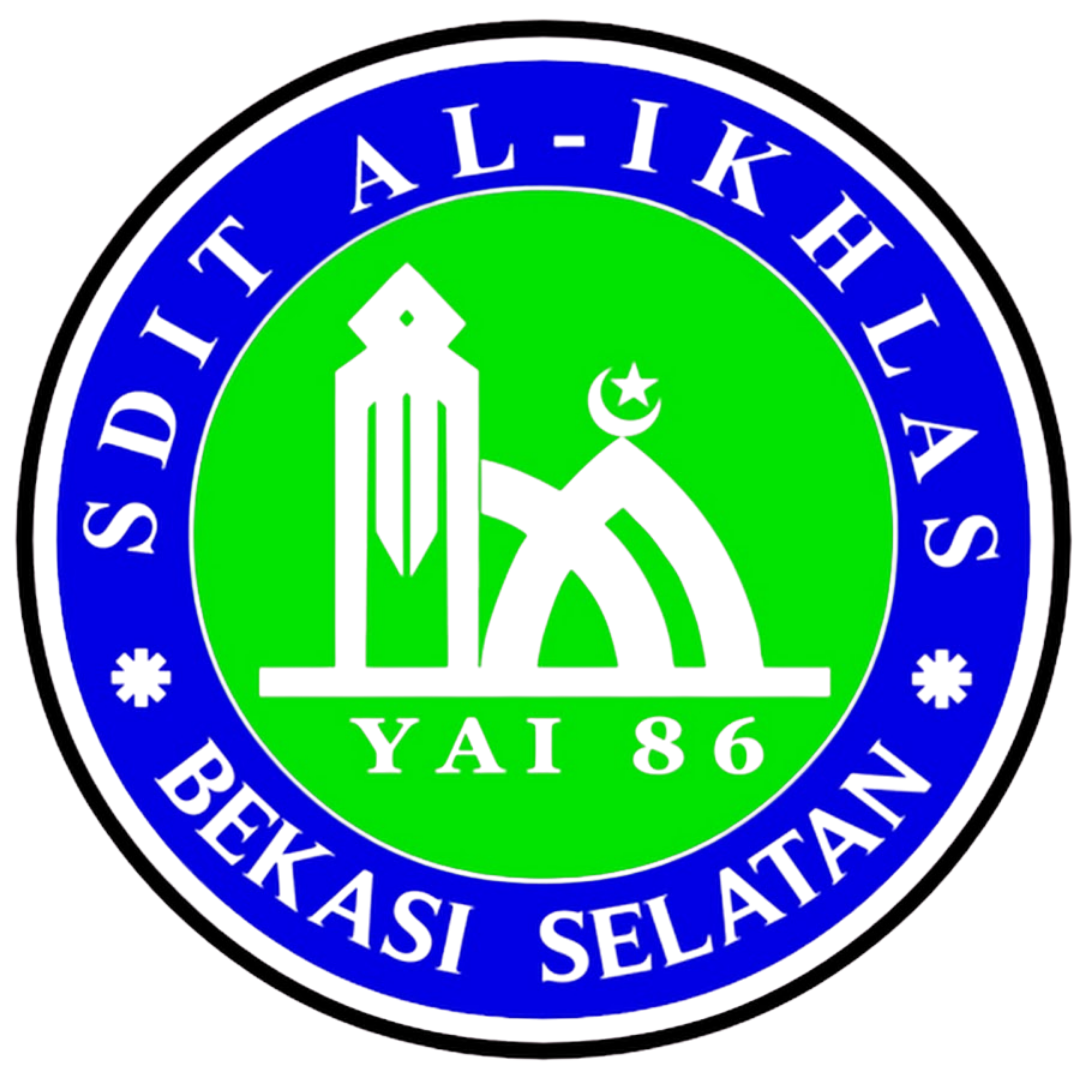
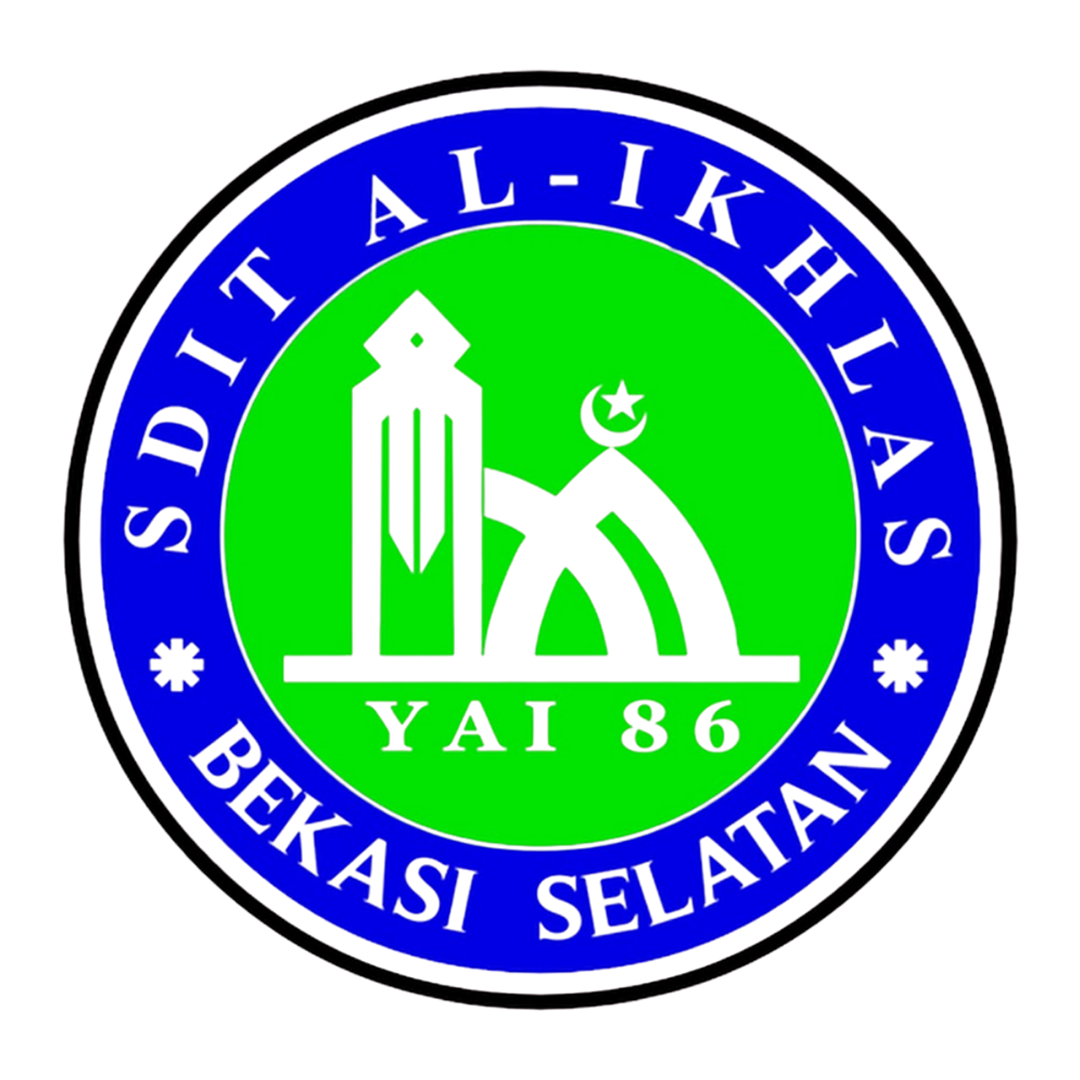
fix: perbaikan susulan setelah user uji langsung di APK #14 - 4 bug nyata
User uji APK #14 di HP asli, laporkan 4 hal masih bermasalah:

1. Icon SALAH - ternyata ada D:\icon\Catatan.txt yang terlewat sesi
   sebelumnya: icon.png utk APK/instalasi, icon2.png utk HOMESCREEN -
   BEDA gambar, BUKAN sumber tunggal spt yang saya asumsikan di W7.
   Diperbaiki: assets/favicon.png (expo.icon, dipakai APK) = icon.png,
   assets/icon.png (adaptiveIcon.foregroundImage, dipakai homescreen) =
   icon2.png.

2. authedFetch() TERNYATA masih fetch() polos TANPA timeout (W4B kemarin
   cuma menutup authedUpload) - koneksi terputus PAS Berita Acara loading,
   nyambung lagi tapi layar muter SELAMANYA. Diperbaiki pola identik
   authedUpload (AbortController 15 detik). Diuji Puppeteer: request
   digantung 17 detik - UI otomatis pulih ke status kosong, tidak macet.
   TAMBAHAN native-only: auto-retry begitu online kembali (reloadGen dari
   networkService.ts, W4E) dipasang di BeritaAcaraScreen/NewsCarousel/
   BeritaAcaraViewer - retry OTOMATIS tanpa nunggu 15 detik/aksi manual.

3. Badge OS masih hilang saat app dibuka-lalu-ditutup tanpa baca -
   diperkuat: re-assert SEKALI LAGI ~1.2 detik setelah 'active' (menembak
   SETELAH kemungkinan auto-clear MIUI, bukan bersamaan) + re-assert
   SEKALI LAGI saat transisi ke 'background' (titik BARU - pastikan nilai
   benar jadi yang TERAKHIR menempel sebelum app kehilangan foreground).
   TETAP best-effort (perilaku launcher pihak ketiga), bukan jaminan 100%.
[…]

diff --git a/src/hooks/useUnreadNotificationCount.ts b/src/hooks/useUnreadNotificationCount.ts
@@ -12,18 +12,29 @@ import { api } from "../services/api";
 // aman diabaikan kalau launcher tidak dukung, bukan error).
 const POLL_INTERVAL_MS = 15000;
 
-// Mitigasi best-effort (2026-09-05, W3B) - laporan user: badge ikon app
-// kadang balik ke 0 begitu app dibuka walau belum ada yang dibaca. Diaudit
-// TIDAK ADA kode di app ini yang pernah reset badge ke 0 secara sengaja -
-// satu-satunya titik set badge (di bawah) SELALU pakai angka ASLI dari
-// server, dan hitungannya sendiri granular benar (1 notifikasi dibaca =
-// -1, bukan bulk-zero, lihat routes/notifications.js). Kesimpulan: ini
-// KEMUNGKINAN BESAR perilaku launcher Android/MIUI di luar kendali kode
-// (badge dibersihkan visual oleh OS saat ikon disentuh, independen dari
-// nilai terakhir yang di-set) - BUKAN jaminan fix total, tapi begitu app
-// kembali ke foreground, badge langsung di-reassert SEGERA (bukan
-// menunggu tick 15 detik berikutnya) supaya kalaupun sempat kebersihkan
-// visual oleh OS, pulih dalam hitungan detik.
+// Mitigasi (2026-09-05, W3B + susulan) - laporan user, direproduksi ULANG
+// di HP asli setelah fix pertama: buka app (badge MASIH ada di homescreen,
+// belum dibaca apa-apa), TUTUP app - badge ikut hilang dari homescreen
+// walau belum pernah membaca 1 pun notifikasi. Diaudit ULANG: TIDAK ADA
+// kode di app ini yang reset badge ke 0 - server-side count-nya sendiri
+// tetap benar (dikonfirmasi via layar Notifikasi in-app TETAP tampilkan
+// titik belum-dibaca). Kesimpulan diperkuat: ini MIUI/launcher Android
+// yang MENGANGGAP "app dibuka = user sudah lihat" & membersihkan badge-nya
+// SENDIRI di level OS begitu app di-foreground-kan - TIDAK PEDULI nilai
+// yang di-set lewat API, dan fix pertama (re-assert SEGERA saat 'active')
+// TERNYATA kalah waktu vs pembersihan MIUI itu sendiri (sama2 terjadi pas
+// app baru dibuka, race yang tidak selalu menang).
+//
+// Perkuat dgn 3 titik re-assert (bukan cuma 1): (1) segera saat 'active'
+// [sudah ada], (2) SEKALI LAGI ~1.2 detik setelah 'active' - menembak
+// SETELAH kemungkinan pembersihan MIUI selesai, bukan bersamaan, (3) saat
+// app baru mau ke 'background' - ini titik BARU yang paling penting utk
+// skenario "buka lalu langsung tutup tanpa baca": begitu user menutup app,
+// badge di-set ULANG ke nilai yg BENAR SEBELUM app kehilangan foreground -
+// jadi APAPUN yang MIUI lakukan saat app dibuka, nilai TERAKHIR yang
+// "menempel" di homescreen adalah nilai benar dari titik (3) ini.
+// TETAP bukan jaminan 100% (perilaku launcher pihak ketiga, di luar
+// kendali kode), tapi menutup celah race yang ditemukan di fix pertama.
 export function useUnreadNotificationCount(): number {
   const [count, setCount] = useState(0);
 
@@ -41,10 +52,22 @@ export function useUnreadNotificationCount(): number {
 
     poll();
     const interval = setInterval(poll, POLL_INTERVAL_MS);
+    let delayedTimer: ReturnType<typeof setTimeout> | null = null;
     const appStateSub = AppState.addEventListener("change", (state) => {
-      if (state === "active") poll();
+      if (state === "active") {
+        poll();
+        delayedTimer = setTimeout(poll, 1200);
+      } else if (state === "background") {
+        if (delayedTimer) clearTimeout(delayedTimer);
+        poll();
+      }
     });
-    return () => { cancelled = true; clearInterval(interval); appStateSub.remove(); };
+    return () => {
+      cancelled = true;
+      clearInterval(interval);
+      if (delayedTimer) clearTimeout(delayedTimer);
+      appStateSub.remove();
+    };
   }, []);
 
   return count;

diff --git a/src/services/api.ts b/src/services/api.ts
@@ -164,6 +164,18 @@ export async function verifyOtp(
   }
 }
 
+// Timeout+try/catch (2026-09-05, susulan W4B) - BUG NYATA ditemukan user:
+// authedUpload() sudah dikasih timeout (W4B), tapi authedFetch() - dipakai
+// HAMPIR SEMUA layar (daftar Berita Acara dkk), jauh lebih sering dipanggil
+// drpd upload - TERNYATA masih fetch() polos TANPA batas waktu. Skenario
+// persis laporan user: koneksi terputus PAS request sedang jalan, lalu
+// koneksi nyambung lagi - promise fetch yang lama itu TIDAK PERNAH
+// resolve/reject (OS bisa nahan socket menggantung bermenit-menit), spinner
+// loading di layar (mis. Berita Acara) muter SELAMANYA krn kode pemanggil
+// (mis. `setLoading(false)` di BeritaAcaraScreen.tsx) tidak pernah
+// terpanggil. 15 detik dianggap wajar utk request JSON biasa (jauh lebih
+// pendek dari upload 30 detik - respons JSON normal harusnya cepat).
+const FETCH_TIMEOUT_MS = 15000;
 async function authedFetch(path: string, options: RequestInit = {}) {
   const token = getActiveToken();
   // X-Viewing-Tahun-Ajaran (2026-09-04, Fase 4) - dipasang di SETIAP request
@@ -172,20 +184,30 @@ async function authedFetch(path: string, options: RequestInit = {}) {
   // aktif spt sebelum Fase 4 ada - lihat middleware/auth.js). Sama persis
   // pola webview api.ts.
   const viewingYear = getViewingYear();
-  const res = await fetch(`${API_URL}${path}`, {
-    ...options,
-    headers: {
-      ...(options.headers || {}),
-      Authorization: token ? `Bearer ${token}` : "",
-      "Content-Type": "application/json",
-      ...(viewingYear ? { "X-Viewing-Tahun-Ajaran": String(viewingYear.id) } : {}),
-    },
-  });
-  if (res.status === 401 && token && getActiveToken() === token) {
-    await logout();
-    DeviceEventEmitter.emit(SESSION_EXPIRED_EVENT);
+  const controller = new AbortController();
+  const timeoutId = setTimeout(() => controller.abort(), FETCH_TIMEOUT_MS);
+  try {
+    const res = await fetch(`${API_URL}${path}`, {
+      ...options,
+      headers: {
+        ...(options.headers || {}),
+        Authorization: token ? `Bearer ${token}` : "",
+        "Content-Type": "application/json",
+        ...(viewingYear ? { "X-Viewing-Tahun-Ajaran": String(viewingYear.id) } : {}),
+      },
+      signal: controller.signal,
+    });
+    if (res.status === 401 && token && getActiveToken() === token) {
+      await logout();
+      DeviceEventEmitter.emit(SESSION_EXPIRED_EVENT);
+    }
+    return await res.json();
+  } catch (err) {
+    const timedOut = err instanceof Error && err.name === "AbortError";
+    return { success: false, message: timedOut ? "Waktu koneksi habis, coba lagi." : "Tidak dapat menghubungi server. Cek koneksi internet Anda." };
+  } finally {
+    clearTimeout(timeoutId);
   }
-  return res.json();
 }
 
 // Timeout+try/catch (2026-09-05, W4B) - SEBELUMNYA fetch() polos tanpa

diff --git a/src/components/screens/BeritaAcaraAdmin.tsx b/src/components/screens/BeritaAcaraAdmin.tsx
@@ -147,9 +147,24 @@ export function BeritaAcaraAdmin({ onNavigate, role }: { onNavigate: (screen: st
     });
     if (result.canceled || result.assets.length === 0) return;
 
-    const id = editingId ?? (await saveOrCreate());
-    if (!id) return;
+    // BUG NYATA ditemukan user (2026-09-05, susulan W4A): flag
+    // uploadingThumb/uploadingActivity SEBELUMNYA baru di-set TRUE
+    // SETELAH `saveOrCreate()` (network round-trip bikin/update artikel
+    // dulu) selesai - ada celah waktu SEBELUM flag itu true dimana tombol
+    // Terbitkan/Simpan Draft SEMPAT enabled lagi (formSaving milik
+    // saveOrCreate sendiri sudah balik false, uploadingThumb belum
+    // sempat true). Diperbaiki: flag di-set TRUE PALING AWAL (sebelum
+    // saveOrCreate dipanggil sama sekali) - tidak ada celah tersisa.
     if (type === "thumbnail") setUploadingThumb(true); else setUploadingActivity(true);
+    const id = editingId ?? (await saveOrCreate());
+    if (!id) {
+      // saveOrCreate gagal (mis. judul masih kosong) - upload dibatalkan,
+      // flag WAJIB dilepas lagi di sini juga (bukan cuma di akhir fungsi)
+      // supaya tombol tidak nyangkut disabled selamanya kalau gagal di titik ini.
+      if (type === "thumbnail") setUploadingThumb(false); else setUploadingActivity(false);
+      setFormMessage((prev) => prev || "Isi judul dulu sebelum upload gambar.");
+      return;
+    }
     for (const asset of result.assets) {
       const { uri, mime } = await resizeForUpload(asset.uri, asset.mimeType ?? "image/jpeg");
       const res = await api.beritaAcaraUploadMedia(id, uri, mime, type);

diff --git a/src/components/screens/BeritaAcaraViewer.tsx b/src/components/screens/BeritaAcaraViewer.tsx
@@ -113,10 +113,14 @@ export function BeritaAcaraViewer({ newsId, onNavigate }: { newsId?: string; onN
   // catatan lengkap di services/networkService.ts.
   const reloadGen = useImageReloadGeneration();
 
+  // reloadGen ikut dependency (2026-09-05, susulan W4E) - auto-retry
+  // begitu TERDETEKSI online kembali, sama alasan dgn BeritaAcaraScreen.tsx
+  // (koneksi terputus PAS layar ini fetch, jangan nyangkut di pesan error).
   useEffect(() => {
     if (!newsId) { setError("Berita tidak ditemukan."); setLoading(false); return; }
     (async () => {
       setLoading(true);
+      setError("");
       const res = await api.beritaAcaraDetail(Number(newsId));
       if (res.success) {
         setPost(res.data);
@@ -125,7 +129,7 @@ export function BeritaAcaraViewer({ newsId, onNavigate }: { newsId?: string; onN
       } else setError(res.message ?? "Berita tidak ditemukan.");
       setLoading(false);
     })();
-  }, [newsId]);
+  }, [newsId, reloadGen]);
 
   async function handleToggleLike() {
     if (!post || likeBusy) return;

diff --git a/src/components/screens/BeritaAcaraScreen.tsx b/src/components/screens/BeritaAcaraScreen.tsx
@@ -26,7 +26,17 @@ export function BeritaAcaraScreen({ onNavigate }: { onNavigate: (screen: string,
     setLoading(false);
     setRefreshing(false);
   }, []);
-  useEffect(() => { load(); }, [load]);
+  // reloadGen ikut jadi dependency (2026-09-05, susulan W4E) - laporan
+  // user: koneksi terputus PAS layar ini sedang load, lalu koneksi
+  // nyambung lagi - layar tetap muter loading selamanya walau app lain
+  // (IG dkk) sudah normal. authedFetch SEKARANG sudah py timeout 15 detik
+  // (jadi TIDAK LAGI muter selamanya), tapi user tetap harus tunggu 15
+  // detik lalu buka manual lagi - reloadGen brubah begitu TERDETEKSI
+  // online kembali, otomatis retry TANPA nunggu/tanpa aksi manual, gaya
+  // Instagram. `load` stabil (useCallback deps kosong) jadi effect ini
+  // TETAP cuma jalan 1x saat mount + tiap reloadGen berubah (bukan dobel
+  // fetch tiap render).
+  useEffect(() => { load(); }, [load, reloadGen]);
 
   const filtered = items.filter((item) => item.title.toLowerCase().includes(search.toLowerCase()));
 

diff --git a/src/components/NewsCarousel.tsx b/src/components/NewsCarousel.tsx
@@ -51,6 +51,13 @@ export function useNewsList() {
     }, [load])
   );
 
+  // reloadGen (2026-09-05, susulan W4E) - auto-retry begitu TERDETEKSI
+  // online kembali, sama alasan dgn BeritaAcaraScreen.tsx (koneksi
+  // terputus PAS carousel ini sedang/baru fetch, jangan nyangkut nunggu
+  // aksi manual/timeout).
+  const reloadGen = useImageReloadGeneration();
+  React.useEffect(() => { load(); }, [load, reloadGen]);
+
   const terbaru = items.slice(0, MAX_ITEMS);
   const terpopuler = [...items].sort((a, b) => (b.likes_count ?? 0) - (a.likes_count ?? 0)).slice(0, MAX_ITEMS);
   return { loading, terbaru, terpopuler, refresh: load };
